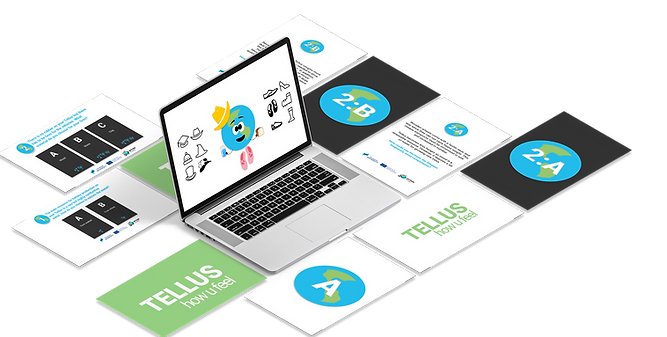
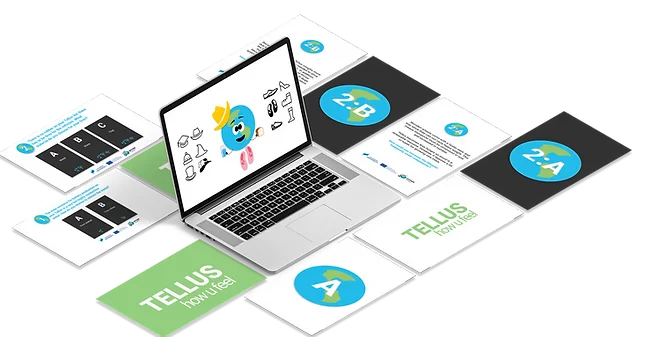
Optimize images to WebP, add SEO metadata, robots.txt, and sitemap
Convert all images to WebP with capped resolutions (~17MB -> ~4MB),
add lazy-loading and explicit dimensions to prevent layout shift.
Add meta descriptions, Open Graph/Twitter tags, favicon, and
structured data to every page, plus robots.txt and sitemap.xml
for search engine crawling.

diff --git a/active8.html b/active8.html
@@ -4,6 +4,27 @@
   <meta charset="UTF-8" />
   <meta name="viewport" content="width=device-width, initial-scale=1.0" />
   <title>Active8 Planet · Johan Lorentz</title>
+  <meta name="description" content="Active8 Planet: a speculative card game that puts the planet back into the room when agile teams make mobility decisions. A UX case study by Johan Lorentz." />
+  <link rel="canonical" href="https://lorriluring.github.io/johanlorentzportfolio.github.io/active8.html" />
+
+  <link rel="icon" href="favicon.ico" sizes="any" />
+  <link rel="icon" type="image/png" href="favicon-32.png" sizes="32x32" />
+  <link rel="icon" type="image/png" href="favicon-16.png" sizes="16x16" />
+  <link rel="apple-touch-icon" href="apple-touch-icon.png" />
+
+  <meta property="og:type" content="website" />
+  <meta property="og:site_name" content="Johan Lorentz" />
+  <meta property="og:title" content="Active8 Planet · Johan Lorentz" />
+  <meta property="og:description" content="A speculative card game that puts the planet back into the room when agile teams make mobility decisions." />
+  <meta property="og:url" content="https://lorriluring.github.io/johanlorentzportfolio.github.io/active8.html" />
+  <meta property="og:image" content="https://lorriluring.github.io/johanlorentzportfolio.github.io/images/active8-thumb.webp" />
+  <meta property="og:locale" content="en_US" />
+
+  <meta name="twitter:card" content="summary_large_image" />
+  <meta name="twitter:title" content="Active8 Planet · Johan Lorentz" />
+  <meta name="twitter:description" content="A speculative card game that puts the planet back into the room when agile teams make mobility decisions." />
+  <meta name="twitter:image" content="https://lorriluring.github.io/johanlorentzportfolio.github.io/images/active8-thumb.webp" />
+
   <link rel="stylesheet" href="style.css" />
   <link rel="preconnect" href="https://fonts.googleapis.com">
   <link rel="preconnect" href="https://fonts.gstatic.com" crossorigin>
@@ -37,8 +58,8 @@
         <div class="carousel">
           <button class="carousel-btn prev" aria-label="Previous image">&#8592;</button>
           <div class="carousel-track">
-            <img src="images/active8-overview1.png" alt="Active8 overview 1" class="carousel-image active" />
-            <img src="images/active8-overview2.webp" alt="Active8 overview 2" class="carousel-image" />
+            <img src="images/active8-overview1.webp" alt="Active8 overview 1" class="carousel-image active" loading="lazy" width="1000" height="563" />
+            <img src="images/active8-overview2.webp" alt="Active8 overview 2" class="carousel-image" loading="lazy" width="667" height="337" />
           </div>
           <button class="carousel-btn next" aria-label="Next image">&#8594;</button>
         </div>
@@ -54,13 +75,13 @@
         <div class="carousel">
           <button class="carousel-btn prev" aria-label="Previous image">&#8592;</button>
           <div class="carousel-track">
-            <img src="images/active8-process1.jpg" alt="Active8 process 1" class="carousel-image active" />
-            <img src="images/active8-process2.jpg" alt="Active8 process 2" class="carousel-image" />
-            <img src="images/active8-process3.jpg" alt="Active8 process 3" class="carousel-image" />
-            <img src="images/active8-process4.jpg" alt="Active8 process 4" class="carousel-image" />
-            <img src="images/active8-process5.jpg" alt="Active8 process 5" class="carousel-image" />
-            <img src="images/active8-process6.jpg" alt="Active8 process 6" class="carousel-image" />
-            <img src="images/active8-process7.jpg" alt="Active8 process 7" class="carousel-image" />
+            <img src="images/active8-process1.webp" alt="Active8 process 1" class="carousel-image active" loading="lazy" width="1600" height="1200" />
+            <img src="images/active8-process2.webp" alt="Active8 process 2" class="carousel-image" loading="lazy" width="1600" height="1200" />
+            <img src="images/active8-process3.webp" alt="Active8 process 3" class="carousel-image" loading="lazy" width="1600" height="1200" />
+            <img src="images/active8-process4.webp" alt="Active8 process 4" class="carousel-image" loading="lazy" width="1200" height="1600" />
+            <img src="images/active8-process5.webp" alt="Active8 process 5" class="carousel-image" loading="lazy" width="1600" height="1200" />
+            <img src="images/active8-process6.webp" alt="Active8 process 6" class="carousel-image" loading="lazy" width="1200" height="1600" />
+            <img src="images/active8-process7.webp" alt="Active8 process 7" class="carousel-image" loading="lazy" width="1200" height="1600" />
           </div>
           <button class="carousel-btn next" aria-label="Next image">&#8594;</button>
         </div>
@@ -91,11 +112,11 @@
         <div class="carousel">
           <button class="carousel-btn prev" aria-label="Previous image">&#8592;</button>
           <div class="carousel-track">
-            <img src="images/active8-game1.webp" alt="Active8 game 1" class="carousel-image active" />
-            <img src="images/active8-game2.jpg" alt="Active8 game 2" class="carousel-image" />
-            <img src="images/active8-game3.webp" alt="Active8 game 3" class="carousel-image" />
-            <img src="images/active8-game4.png" alt="Active8 game 4" class="carousel-image" />
-            <img src="images/active8-game5.png" alt="Active8 game 5" class="carousel-image" />
+            <img src="images/active8-game1.webp" alt="Active8 game 1" class="carousel-image active" loading="lazy" width="667" height="337" />
+            <img src="images/active8-game2.webp" alt="Active8 game 2" class="carousel-image" loading="lazy" width="1600" height="1200" />
+            <img src="images/active8-game3.webp" alt="Active8 game 3" class="carousel-image" loading="lazy" width="1600" height="1067" />
+            <img src="images/active8-game4.webp" alt="Active8 game 4" class="carousel-image" loading="lazy" width="829" height="378" />
+            <img src="images/active8-game5.webp" alt="Active8 game 5" class="carousel-image" loading="lazy" width="771" height="754" />
           </div>
           <button class="carousel-btn next" aria-label="Next image">&#8594;</button>
         </div>

diff --git a/onlinespace.html b/onlinespace.html
@@ -4,6 +4,27 @@
   <meta charset="UTF-8" />
   <meta name="viewport" content="width=device-width, initial-scale=1.0" />
   <title>A Shared Online Space · Johan Lorentz</title>
+  <meta name="description" content="Designing an LMS feature that helps online students feel like they're studying alongside real people, not just logged-in usernames. A UX case study by Johan Lorentz." />
+  <link rel="canonical" href="https://lorriluring.github.io/johanlorentzportfolio.github.io/onlinespace.html" />
+
+  <link rel="icon" href="favicon.ico" sizes="any" />
+  <link rel="icon" type="image/png" href="favicon-32.png" sizes="32x32" />
+  <link rel="icon" type="image/png" href="favicon-16.png" sizes="16x16" />
+  <link rel="apple-touch-icon" href="apple-touch-icon.png" />
+
+  <meta property="og:type" content="website" />
+  <meta property="og:site_name" content="Johan Lorentz" />
+  <meta property="og:title" content="A Shared Online Space · Johan Lorentz" />
+  <meta property="og:description" content="Designing an LMS feature that helps online students feel like they're studying alongside real people, not just logged-in usernames." />
+  <meta property="og:url" content="https://lorriluring.github.io/johanlorentzportfolio.github.io/onlinespace.html" />
+  <meta property="og:image" content="https://lorriluring.github.io/johanlorentzportfolio.github.io/images/onlinespace-thumb.webp" />
+  <meta property="og:locale" content="en_US" />
+
+  <meta name="twitter:card" content="summary_large_image" />
+  <meta name="twitter:title" content="A Shared Online Space · Johan Lorentz" />
+  <meta name="twitter:description" content="Designing an LMS feature that helps online students feel like they're studying alongside real people, not just logged-in usernames." />
+  <meta name="twitter:image" content="https://lorriluring.github.io/johanlorentzportfolio.github.io/images/onlinespace-thumb.webp" />
+
   <link rel="stylesheet" href="style.css" />
   <link rel="preconnect" href="https://fonts.googleapis.com">
   <link rel="preconnect" href="https://fonts.gstatic.com" crossorigin>
@@ -34,7 +55,7 @@
 
     <section class="case-section">
       <div class="case-media">
-        <img src="images/onlinespace-overview.png" alt="Prototype overview: student list and activity tables" class="case-image" />
+        <img src="images/onlinespace-overview.webp" alt="Prototype overview: student list and activity tables" class="case-image" loading="lazy" width="1125" height="589" />
       </div>
       <h2>The challenge</h2>
       <p>
@@ -47,8 +68,8 @@
         <div class="carousel">
           <button class="carousel-btn prev" aria-label="Previous image">&#8592;</button>
           <div class="carousel-track">
-            <img src="images/onlinespace-scenario1.png" alt="Evaluation scenario: filling in current activity" class="carousel-image active" />
-            <img src="images/onlinespace-scenario2.png" alt="Evaluation scenario: simulated group chat" class="carousel-image" />
+            <img src="images/onlinespace-scenario1.webp" alt="Evaluation scenario: filling in current activity" class="carousel-image active" loading="lazy" width="1015" height="515" />
+            <img src="images/onlinespace-scenario2.webp" alt="Evaluation scenario: simulated group chat" class="carousel-image" loading="lazy" width="1127" height="471" />
           </div>
           <button class="carousel-btn next" aria-label="Next image">&#8594;</button>
         </div>
@@ -73,11 +94,11 @@
         <div class="carousel">
           <button class="carousel-btn prev" aria-label="Previous image">&#8592;</button>
           <div class="carousel-track">
-            <img src="images/onlinespace-friendslist.png" alt="Design proposal: presence-aware student list" class="carousel-image active" />
-            <img src="images/onlinespace-activitydesc.png" alt="Design proposal: activity description" class="carousel-image" />
-            <img src="images/onlinespace-tableassign.png" alt="Design proposal: automatic table assignment" class="carousel-image" />
-            <img src="images/onlinespace-emoticon.png" alt="Design proposal: emoticon reactions in chat" class="carousel-image" />
-            <img src="images/onlinespace-profile.png" alt="Design proposal: personal user profile" class="carousel-image" />
+            <img src="images/onlinespace-friendslist.webp" alt="Design proposal: presence-aware student list" class="carousel-image active" loading="lazy" width="399" height="554" />
+            <img src="images/onlinespace-activitydesc.webp" alt="Design proposal: activity description" class="carousel-image" loading="lazy" width="1068" height="201" />
+            <img src="images/onlinespace-tableassign.webp" alt="Design proposal: automatic table assignment" class="carousel-image" loading="lazy" width="1121" height="653" />
+            <img src="images/onlinespace-emoticon.webp" alt="Design proposal: emoticon reactions in chat" class="carousel-image" loading="lazy" width="494" height="199" />
+            <img src="images/onlinespace-profile.webp" alt="Design proposal: personal user profile" class="carousel-image" loading="lazy" width="705" height="571" />
           </div>
           <button class="carousel-btn next" aria-label="Next image">&#8594;</button>
         </div>

diff --git a/grötvik.html b/grötvik.html
@@ -4,6 +4,27 @@
   <meta charset="UTF-8" />
   <meta name="viewport" content="width=device-width, initial-scale=1.0" />
   <title>Projekt Grötvik · Johan Lorentz</title>
+  <meta name="description" content="Designing for sustainable tourism and mobility in a coastal village, without erasing what makes it feel like home. A service design case study by Johan Lorentz." />
+  <link rel="canonical" href="https://lorriluring.github.io/johanlorentzportfolio.github.io/gr%C3%B6tvik.html" />
+
+  <link rel="icon" href="favicon.ico" sizes="any" />
+  <link rel="icon" type="image/png" href="favicon-32.png" sizes="32x32" />
+  <link rel="icon" type="image/png" href="favicon-16.png" sizes="16x16" />
+  <link rel="apple-touch-icon" href="apple-touch-icon.png" />
+
+  <meta property="og:type" content="website" />
+  <meta property="og:site_name" content="Johan Lorentz" />
+  <meta property="og:title" content="Projekt Grötvik · Johan Lorentz" />
+  <meta property="og:description" content="Designing for sustainable tourism and mobility in a coastal village, without erasing what makes it feel like home." />
+  <meta property="og:url" content="https://lorriluring.github.io/johanlorentzportfolio.github.io/gr%C3%B6tvik.html" />
+  <meta property="og:image" content="https://lorriluring.github.io/johanlorentzportfolio.github.io/images/grotvik-thumb.webp" />
+  <meta property="og:locale" content="en_US" />
+
+  <meta name="twitter:card" content="summary_large_image" />
+  <meta name="twitter:title" content="Projekt Grötvik · Johan Lorentz" />
+  <meta name="twitter:description" content="Designing for sustainable tourism and mobility in a coastal village, without erasing what makes it feel like home." />
+  <meta name="twitter:image" content="https://lorriluring.github.io/johanlorentzportfolio.github.io/images/grotvik-thumb.webp" />
+
   <link rel="stylesheet" href="style.css" />
   <link rel="preconnect" href="https://fonts.googleapis.com">
   <link rel="preconnect" href="https://fonts.gstatic.com" crossorigin>
@@ -37,8 +58,8 @@
         <div class="carousel">
           <button class="carousel-btn prev" aria-label="Previous image">&#8592;</button>
           <div class="carousel-track">
-            <img src="images/grotvik-hero1.jpeg" alt="Grötvik overview 1" class="carousel-image active" />
-            <img src="images/grotvik-hero2.jpeg" alt="Grötvik overview 2" class="carousel-image" />
+            <img src="images/grotvik-hero1.webp" alt="Grötvik overview 1" class="carousel-image active" loading="lazy" width="882" height="939" />
+            <img src="images/grotvik-hero2.webp" alt="Grötvik overview 2" class="carousel-image" loading="lazy" width="476" height="357" />
           </div>
           <button class="carousel-btn next" aria-label="Next image">&#8594;</button>
         </div>
@@ -54,9 +75,9 @@
         <div class="carousel">
           <button class="carousel-btn prev" aria-label="Previous image">&#8592;</button>
           <div class="carousel-track">
-            <img src="images/grotvik-process1.jpg" alt="Workshop process 1" class="carousel-image active" />
-            <img src="images/grotvik-process2.jpeg" alt="Workshop process 2" class="carousel-image" />
-            <img src="images/grotvik-process3.jpeg" alt="Workshop process 3" class="carousel-image" />
+            <img src="images/grotvik-process1.webp" alt="Workshop process 1" class="carousel-image active" loading="lazy" width="1022" height="767" />
+            <img src="images/grotvik-process2.webp" alt="Workshop process 2" class="carousel-image" loading="lazy" width="351" height="468" />
+            <img src="images/grotvik-process3.webp" alt="Workshop process 3" class="carousel-image" loading="lazy" width="354" height="265" />
           </div>
           <button class="carousel-btn next" aria-label="Next image">&#8594;</button>
         </div>
@@ -86,9 +107,9 @@
         <div class="carousel">
           <button class="carousel-btn prev" aria-label="Previous image">&#8592;</button>
           <div class="carousel-track">
-            <img src="images/grotvik-flexhive1.png" alt="FLEX-HIVE concept 1" class="carousel-image active" />
-            <img src="images/grotvik-flexhive2.jpeg" alt="FLEX-HIVE concept 2" class="carousel-image" />
-            <img src="images/grotvik-flexhive3.png" alt="FLEX-HIVE concept 3" class="carousel-image" />
+            <img src="images/grotvik-flexhive1.webp" alt="FLEX-HIVE concept 1" class="carousel-image active" loading="lazy" width="881" height="1133" />
+            <img src="images/grotvik-flexhive2.webp" alt="FLEX-HIVE concept 2" class="carousel-image" loading="lazy" width="516" height="348" />
+            <img src="images/grotvik-flexhive3.webp" alt="FLEX-HIVE concept 3" class="carousel-image" loading="lazy" width="1021" height="978" />
           </div>
           <button class="carousel-btn next" aria-label="Next image">&#8594;</button>
         </div>

diff --git a/index.html b/index.html
@@ -5,10 +5,47 @@
   <meta name="viewport" content="width=device-width, initial-scale=1.0" />
   <title>Johan Lorentz · UX/UI &amp; Service Designer</title>
   <meta name="description" content="Johan Lorentz is a UX/UI and Service Designer based in Sweden, working end to end from research to tested prototypes." />
+  <link rel="canonical" href="https://lorriluring.github.io/johanlorentzportfolio.github.io/" />
+
+  <link rel="icon" href="favicon.ico" sizes="any" />
+  <link rel="icon" type="image/png" href="favicon-32.png" sizes="32x32" />
+  <link rel="icon" type="image/png" href="favicon-16.png" sizes="16x16" />
+  <link rel="apple-touch-icon" href="apple-touch-icon.png" />
+
+  <meta property="og:type" content="website" />
+  <meta property="og:site_name" content="Johan Lorentz" />
+  <meta property="og:title" content="Johan Lorentz · UX/UI &amp; Service Designer" />
+  <meta property="og:description" content="Johan Lorentz is a UX/UI and Service Designer based in Sweden, working end to end from research to tested prototypes." />
+  <meta property="og:url" content="https://lorriluring.github.io/johanlorentzportfolio.github.io/" />
+  <meta property="og:image" content="https://lorriluring.github.io/johanlorentzportfolio.github.io/og-image.jpg" />
+  <meta property="og:locale" content="en_US" />
+
+  <meta name="twitter:card" content="summary_large_image" />
+  <meta name="twitter:title" content="Johan Lorentz · UX/UI &amp; Service Designer" />
+  <meta name="twitter:description" content="Johan Lorentz is a UX/UI and Service Designer based in Sweden, working end to end from research to tested prototypes." />
+  <meta name="twitter:image" content="https://lorriluring.github.io/johanlorentzportfolio.github.io/og-image.jpg" />
+
   <link rel="stylesheet" href="style.css" />
   <link rel="preconnect" href="https://fonts.googleapis.com">
   <link rel="preconnect" href="https://fonts.gstatic.com" crossorigin>
   <link href="https://fonts.googleapis.com/css2?family=Fraunces:opsz,wght@9..144,500;9..144,600;9..144,700&family=Inter:wght@400;500;600;700&display=swap" rel="stylesheet">
+  <script type="application/ld+json">
+  {
+    "@context": "https://schema.org",
+    "@type": "Person",
+    "name": "Johan Lorentz",
+    "jobTitle": "UX/UI Designer & Service Designer",
+    "url": "https://lorriluring.github.io/johanlorentzportfolio.github.io/",
+    "image": "https://lorriluring.github.io/johanlorentzportfolio.github.io/profileimg.webp",
+    "email": "mailto:johan.lorentz@gmail.com",
+    "sameAs": ["https://www.linkedin.com/in/johan-lorentz"],
+    "address": {
+      "@type": "PostalAddress",
+      "addressLocality": "Helsingborg",
+      "addressCountry": "SE"
+    }
+  }
+  </script>
 </head>
 <body>
 
@@ -45,7 +82,7 @@
           <a href="https://www.linkedin.com/in/johan-lorentz" target="_blank" rel="noopener">LinkedIn</a>
         </div>
       </div>
-      <img src="profileimg.jpg" alt="Johan Lorentz" class="hero-photo" />
+      <img src="profileimg.webp" alt="Johan Lorentz" class="hero-photo" width="360" height="360" fetchpriority="high" />
     </header>
 
     <section id="about">
@@ -97,7 +134,7 @@
 
         <a href="grötvik.html" class="work-item">
           <div class="work-thumb">
-            <img src="images/grotvik-thumb.jpeg" alt="Projekt Grötvik" loading="lazy" />
+            <img src="images/grotvik-thumb.webp" alt="Projekt Grötvik" loading="lazy" width="751" height="800" />
           </div>
           <p class="work-meta">Trafikverket · 2024–2025</p>
           <h3>Projekt Grötvik</h3>
@@ -107,7 +144,7 @@
 
         <a href="active8.html" class="work-item">
           <div class="work-thumb">
-            <img src="images/active8-thumb.png" alt="Active8 Planet" loading="lazy" />
+            <img src="images/active8-thumb.webp" alt="Active8 Planet" loading="lazy" width="800" height="450" />
           </div>
           <p class="work-meta">Volvo Cars, EU, Halmstad University · 2021–2022</p>
           <h3>Active8 Planet</h3>
@@ -117,7 +154,7 @@
 
         <a href="viaviridi.html" class="work-item">
           <div class="work-thumb">
-            <img src="images/viaviridi-thumb.png" alt="ViaViridi LCA Tool" loading="lazy" />
+            <img src="images/viaviridi-thumb.webp" alt="ViaViridi LCA Tool" loading="lazy" width="1600" height="1200" />
           </div>
           <p class="work-meta">ViaViridi · 2021</p>
           <h3>ViaViridi LCA Tool</h3>
@@ -127,7 +164,7 @@
 
         <a href="onlinespace.html" class="work-item">
           <div class="work-thumb">
-            <img src="images/onlinespace-thumb.png" alt="A Shared Online Space" loading="lazy" />
+            <img src="images/onlinespace-thumb.webp" alt="A Shared Online Space" loading="lazy" width="800" height="419" />
           </div>
           <p class="work-meta">Halmstad University · 2022</p>
           <h3>A Shared Online Space</h3>

diff --git a/viaviridi.html b/viaviridi.html
@@ -4,6 +4,27 @@
   <meta charset="UTF-8" />
   <meta name="viewport" content="width=device-width, initial-scale=1.0" />
   <title>ViaViridi LCA Tool · Johan Lorentz</title>
+  <meta name="description" content="Making Life Cycle Assessment approachable for construction clients who aren't sustainability experts. A UX case study by Johan Lorentz." />
+  <link rel="canonical" href="https://lorriluring.github.io/johanlorentzportfolio.github.io/viaviridi.html" />
+
+  <link rel="icon" href="favicon.ico" sizes="any" />
+  <link rel="icon" type="image/png" href="favicon-32.png" sizes="32x32" />
+  <link rel="icon" type="image/png" href="favicon-16.png" sizes="16x16" />
+  <link rel="apple-touch-icon" href="apple-touch-icon.png" />
+
+  <meta property="og:type" content="website" />
+  <meta property="og:site_name" content="Johan Lorentz" />
+  <meta property="og:title" content="ViaViridi LCA Tool · Johan Lorentz" />
+  <meta property="og:description" content="Making Life Cycle Assessment approachable for construction clients who aren't sustainability experts." />
+  <meta property="og:url" content="https://lorriluring.github.io/johanlorentzportfolio.github.io/viaviridi.html" />
+  <meta property="og:image" content="https://lorriluring.github.io/johanlorentzportfolio.github.io/images/viaviridi-thumb.webp" />
+  <meta property="og:locale" content="en_US" />
+
+  <meta name="twitter:card" content="summary_large_image" />
+  <meta name="twitter:title" content="ViaViridi LCA Tool · Johan Lorentz" />
+  <meta name="twitter:description" content="Making Life Cycle Assessment approachable for construction clients who aren't sustainability experts." />
+  <meta name="twitter:image" content="https://lorriluring.github.io/johanlorentzportfolio.github.io/images/viaviridi-thumb.webp" />
+
   <link rel="stylesheet" href="style.css" />
   <link rel="preconnect" href="https://fonts.googleapis.com">
   <link rel="preconnect" href="https://fonts.gstatic.com" crossorigin>
@@ -34,7 +55,7 @@
 
     <section class="case-section">
       <div class="case-media">
-        <img src="images/viaviridi-thumb.png" alt="ViaViridi overview" class="case-image" />
+        <img src="images/viaviridi-thumb.webp" alt="ViaViridi overview" class="case-image" loading="lazy" width="1600" height="1200" />
       </div>
       <h2>The challenge</h2>
       <p>
@@ -47,8 +68,8 @@
         <div class="carousel">
           <button class="carousel-btn prev" aria-label="Previous image">&#8592;</button>
           <div class="carousel-track">
-            <img src="images/viaviridi-process1.png" alt="ViaViridi process 1" class="carousel-image active" />
-            <img src="images/viaviridi-process2.png" alt="ViaViridi process 2" class="carousel-image" />
+            <img src="images/viaviridi-process1.webp" alt="ViaViridi process 1" class="carousel-image active" loading="lazy" width="777" height="276" />
+            <img src="images/viaviridi-process2.webp" alt="ViaViridi process 2" class="carousel-image" loading="lazy" width="1600" height="728" />
           </div>
           <button class="carousel-btn next" aria-label="Next image">&#8594;</button>
         </div>
@@ -78,9 +99,9 @@
         <div class="carousel">
           <button class="carousel-btn prev" aria-label="Previous image">&#8592;</button>
           <div class="carousel-track">
-            <img src="images/viaviridi-tool1.png" alt="ViaViridi tool 1" class="carousel-image active" />
-            <img src="images/viaviridi-tool2.PNG" alt="ViaViridi tool 2" class="carousel-image" />
-            <img src="images/viaviridi-tool3.jpg" alt="ViaViridi tool 3" class="carousel-image" />
+            <img src="images/viaviridi-tool1.webp" alt="ViaViridi tool 1" class="carousel-image active" loading="lazy" width="695" height="652" />
+            <img src="images/viaviridi-tool2.webp" alt="ViaViridi tool 2" class="carousel-image" loading="lazy" width="1257" height="822" />
+            <img src="images/viaviridi-tool3.webp" alt="ViaViridi tool 3" class="carousel-image" loading="lazy" width="843" height="632" />
           </div>
           <button class="carousel-btn next" aria-label="Next image">&#8594;</button>
         </div>
